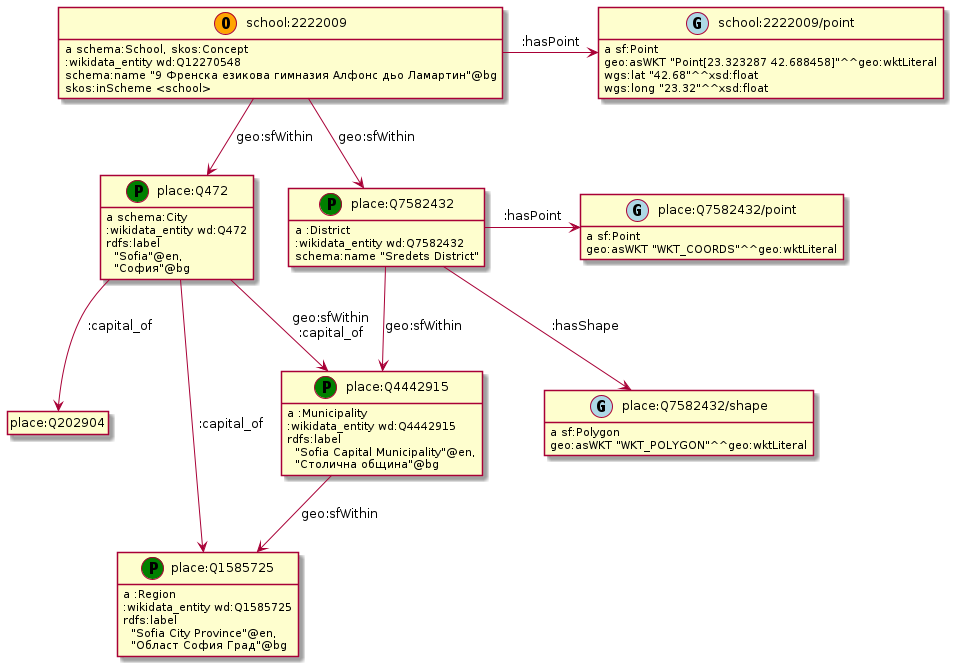
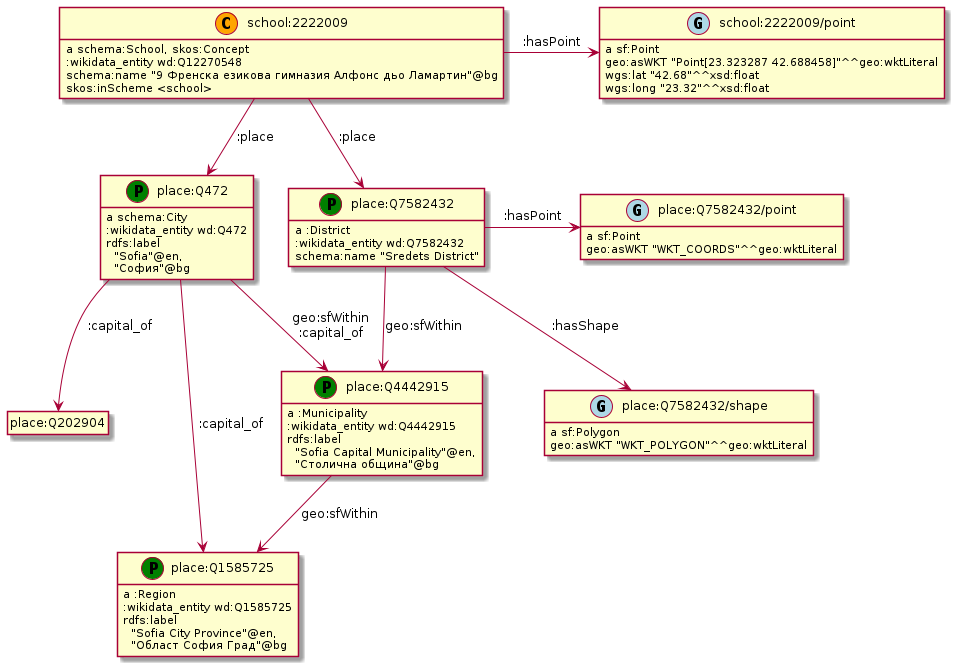
readme and doc

diff --git a/model/README.md b/model/README.md
@@ -2,21 +2,31 @@ This folder contains the semantic model and diagrams
 
 # High Level Model
 
+The data is centered around schools and observations about them.
+The schools are situated in a hierarchical administrative context.
+Observations can be related to the schools themselves (such as results from exams) as well as to elements from the administrative context (the population of the city te school is in)
+The following diagram illustrates this relationship. 
+
 ![](high-level.png)
 
-
 # Geography and administrative hierarchy
+
+The following diagram illustrates the relationships between a school and its administrative context.
+Also is shown the geographical information we collect about the various entities 
+as well as some secondary relationships such as (`:capital_of` indicating that a City (`schema:City`) is the capital of a larger administrative unit (`:Municipality` ot `:Region`)
 
 ![](school-geo.png)
 
 # Observations
 
+Observations about the various entities are represented using the [RDF Data Cube Vocabulary](https://www.w3.org/TR/vocab-data-cube/)
+The diagram shows four results from two different *DZI* (2020 and 2021) exams in a single school. 
+
 ![](observation.png)
 
-# Available datsests
+Detailed information about the different `qb:DataSets` as well as the procedures for building them can be found in the [data](../data) folder.
 
-
-
+This [SPARQL query](http://edu.ontotext.com/sparql?savedQueryName=List%20all%20available%20datasets&owner=admin&execute) lists all available `qb:DataSets`
 
 ## Visual Graph
 
